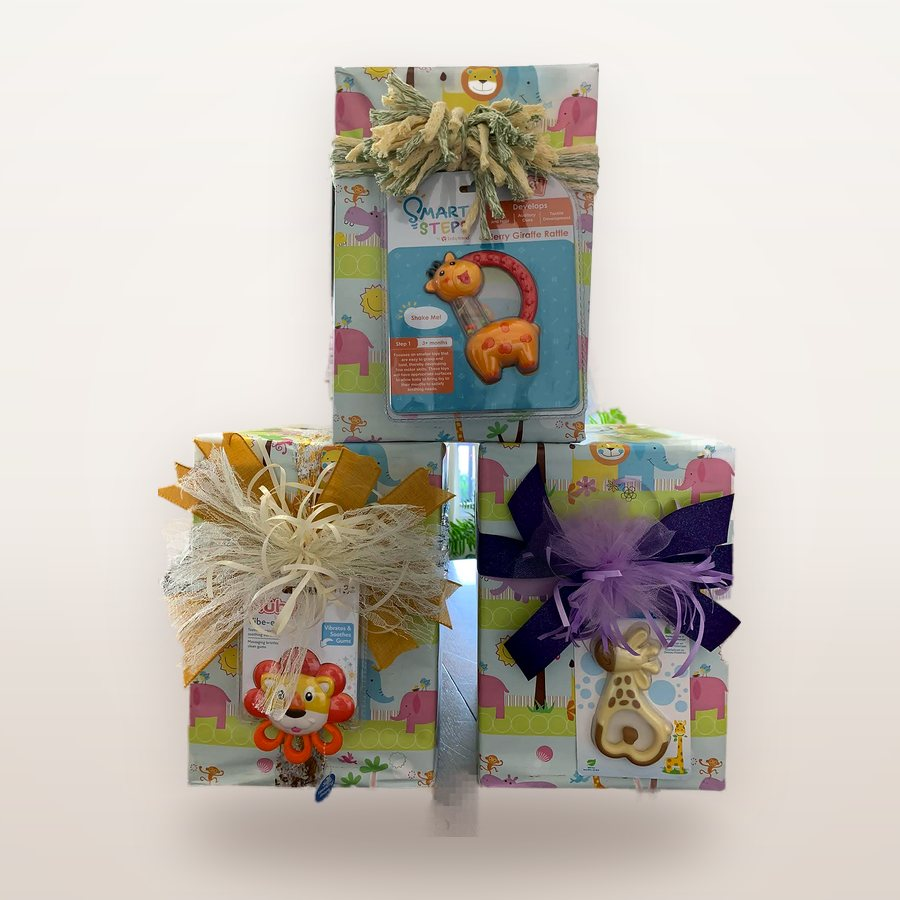
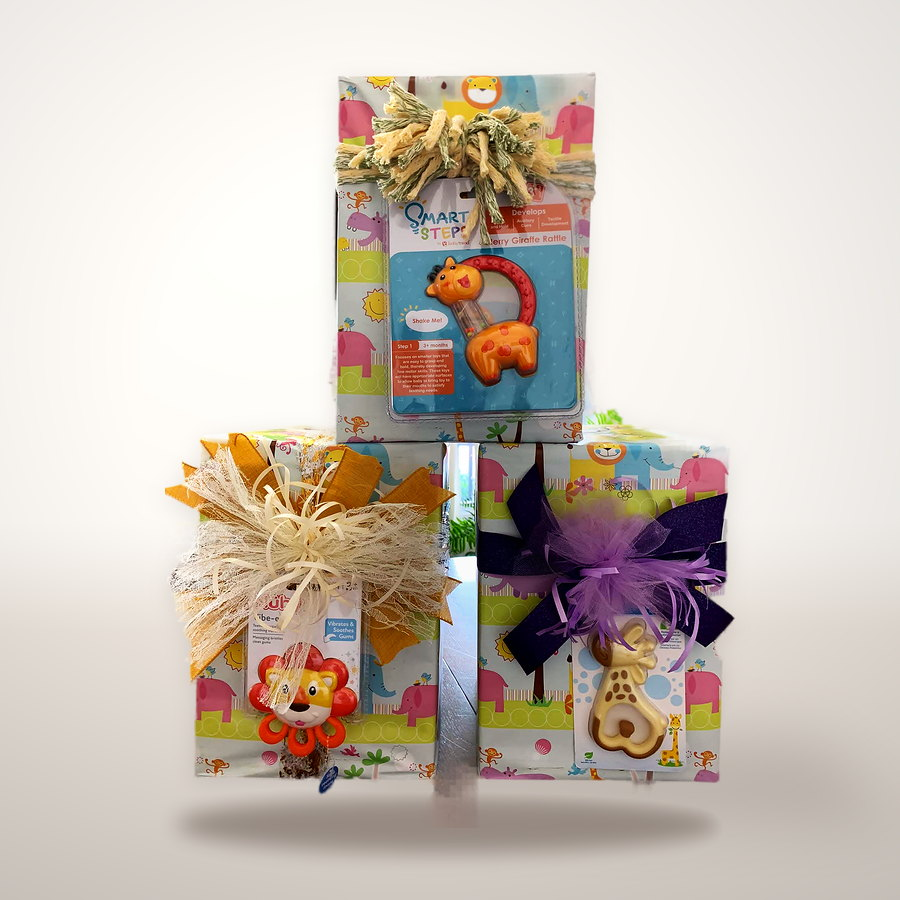
Relight portfolio photos for a product-shot look
- White balance per gift (removes indoor yellow cast), tone curve with
  shadow lift and vibrance, soft upper-left key light on each subject
- Edge decontamination to remove halos from the cut-outs
- Directional cast shadow plus tight contact shadow, on a lit backdrop
  with a subtle wall-to-surface horizon
- Processing script kept in assets/photos/studio.py for future photos

Claude-Session: https://claude.ai/code/session_016JQtQKJMKXSfWYB8dAVTZy

Changed region(s): [[0.1556, 0.0622, 1.0, 1.0]]

diff --git a/all-wrapped-up/thank-you.html b/all-wrapped-up/thank-you.html
@@ -78,11 +78,11 @@
   <span class="kicker">Thank you</span><h1>Your request has been received</h1><p class="lede">We will reply within one business day with pricing and next steps. For anything urgent, text 540-340-4905.</p>
 </div></div>
 <section><div class="wrap" style="text-align:center"><div class="gift-tile reveal in" style="background:#fde4ee;width:220px;margin:0 auto 24px"><svg viewBox="0 0 200 200" aria-hidden="true">
-<defs><pattern id="d81476" width="10" height="10" patternUnits="userSpaceOnUse"><circle cx="5" cy="5" r="1.8" fill="#fff"/></pattern></defs>
+<defs><pattern id="d21976" width="10" height="10" patternUnits="userSpaceOnUse"><circle cx="5" cy="5" r="1.8" fill="#fff"/></pattern></defs>
 <rect x="30" y="86" width="140" height="94" rx="8" fill="#fff"/>
 <rect x="22" y="70" width="156" height="30" rx="5" fill="#fde4ee" stroke="#fff" stroke-width="2"/>
-<rect x="86" y="70" width="28" height="110" fill="#e5648f"/><rect x="86" y="70" width="28" height="110" fill="url(#d81476)"/>
-<rect x="22" y="78" width="156" height="14" fill="#e5648f"/><rect x="22" y="78" width="156" height="14" fill="url(#d81476)"/>
+<rect x="86" y="70" width="28" height="110" fill="#e5648f"/><rect x="86" y="70" width="28" height="110" fill="url(#d21976)"/>
+<rect x="22" y="78" width="156" height="14" fill="#e5648f"/><rect x="22" y="78" width="156" height="14" fill="url(#d21976)"/>
 <path d="M100 74c-14-4-40-26-30-38s26 18 30 38zm0 0c14-4 40-26 30-38s-26 18-30 38z" fill="#b23a5e"/>
 <path d="M100 74c-6 6-18 18-26 12s10-16 26-12zm0 0c6 6 18 18 26 12s-10-16-26-12z" fill="#e5648f"/>
 <circle cx="100" cy="72" r="8" fill="#b23a5e"/><circle cx="97" cy="69" r="2.5" fill="#fff" opacity=".7"/>

diff --git a/all-wrapped-up/assets/photos/studio.py b/all-wrapped-up/assets/photos/studio.py
@@ -1,0 +1,165 @@
+"""Studio v2: cut-out + relight + directional shadows on a lit backdrop."""
+from rembg import remove, new_session
+from PIL import Image, ImageOps, ImageFilter, ImageChops, ImageDraw
+import numpy as np, pathlib, sys, time
+U = pathlib.Path('/root/.claude/uploads/e47ac2d3-6f0e-5f1a-8d8f-dfa7b433f156')
+OUT = pathlib.Path('assets/photos'); OUT.mkdir(exist_ok=True)
+CUT = pathlib.Path('/tmp/claude-0/cutouts'); CUT.mkdir(exist_ok=True, parents=True)
+sess = new_session("isnet-general-use"); sess_u2 = new_session("u2net")
+U2NET = {"3f236cb7", "a082a12c", "2ff12bbc", "726a9940"}
+SQ = (900, 900); HERO = (1200, 1500); LAND = (1400, 933)
+SPECS = {
+ 'hero-navy-chiffon':   ('182b1b47', HERO, True,  None),
+ 'about-hannah':        ('3f236cb7', HERO, True,  None),
+ 'sq-rainbow-box':      ('cce4d41b', SQ, False, None),
+ 'sq-hannah-check':     ('3f236cb7', SQ, True,  None),
+ 'sq-christmas-gold':   ('2ff12bbc', SQ, True,  None),
+ 'sq-western-rose':     ('f953b99b', SQ, True,  None),
+ 'sq-flamingo':         ('3945b91d', SQ, False, None),
+ 'sq-dad-shirt':        ('4dc32eeb', SQ, False, None),
+ 'sq-purple-organza':   ('161109a9', SQ, False, None),
+ 'sq-vols':             ('39539df9', SQ, False, None),
+ 'sq-nutcracker':       ('34ebf013', SQ, True,  None),
+ 'sq-bee-stack':        ('50c52199', SQ, False, None),
+ 'sq-trees-burlap':     ('caf7879e', SQ, False, None),
+ 'sq-paisley':          ('3e9d56c3', SQ, True,  None),
+ 'corp-purple-set':     ('3e409de2', LAND, False, None),
+ 'sq-special-delivery': ('c3f0febb', SQ, True,  None),
+ 'sq-pompom-stack':     ('8b7f17b9', SQ, False, None),
+ 'sq-snowflake-cube':   ('8727f463', SQ, False, None),
+ 'sq-purple-joy':       ('726a9940', SQ, False, None),
+ 'land-colorful-trees': ('750f1b45', LAND, False, None),
+ 'sq-wedding-navy':     ('182b1b47', SQ, True,  (0, .6)),
+ 'sq-bridal-dots':      ('a082a12c', SQ, True,  None),
+ 'sq-baby-shower':      ('d59d1308', SQ, False, None),
+ 'sq-camo-birthday':    ('efd1c6e1', SQ, False, None),
+}
+ONLY = sys.argv[1:]
+def find(uid): return next(U.glob(uid + '*'))
+
+def cutout(uid):
+    f = CUT / (uid + '.png')
+    if f.exists(): return Image.open(f).convert('RGBA')
+    im = ImageOps.exif_transpose(Image.open(find(uid))).convert('RGB'); im.thumbnail((1600, 1600), Image.LANCZOS)
+    out = remove(im, session=sess_u2) if uid in U2NET else remove(im, session=sess, alpha_matting=True,
+          alpha_matting_foreground_threshold=240, alpha_matting_background_threshold=10, alpha_matting_erode_size=6)
+    out.save(f); return out
+
+def best_angle(alpha):
+    a = alpha.copy(); a.thumbnail((320, 320)); best = (0, 1e18)
+    for i in range(-40, 41):
+        ang = i*0.25; r = a.rotate(ang, expand=True, resample=Image.BILINEAR)
+        bb = r.point(lambda v: 255 if v > 128 else 0).getbbox()
+        if bb:
+            area = (bb[2]-bb[0])*(bb[3]-bb[1])
+            if area < best[1]: best = (ang, area)
+    return best[0]
+
+# ---------- edge & colour work (numpy) ----------
+def clean_edges(rgba):
+    """Erode alpha 1px, feather, and pull edge colours from the interior to kill halos."""
+    a = rgba.split()[3].filter(ImageFilter.MinFilter(3)).filter(ImageFilter.GaussianBlur(0.8))
+    arr = np.asarray(rgba).astype(np.float32); al = np.asarray(a).astype(np.float32)/255.0
+    rgb = arr[..., :3]
+    # interior colour spread: premultiplied blur / blurred alpha
+    pre = Image.fromarray((rgb*al[..., None]).astype(np.uint8)).filter(ImageFilter.GaussianBlur(3))
+    ab = Image.fromarray((al*255).astype(np.uint8)).filter(ImageFilter.GaussianBlur(3))
+    pre = np.asarray(pre).astype(np.float32); ab = np.asarray(ab).astype(np.float32)/255.0
+    fill = pre/np.maximum(ab[..., None], 1e-3)
+    w = np.clip((0.92 - al)/0.92, 0, 1)[..., None]      # blend toward interior colour near the edge
+    rgb = rgb*(1-w) + fill*w
+    out = np.dstack([np.clip(rgb, 0, 255), al*255]).astype(np.uint8)
+    return Image.fromarray(out, 'RGBA')
+
+def white_balance(rgb, al, strength=0.75):
+    m = al > 0.95
+    px = rgb[m]
+    if len(px) < 500: return rgb
+    lum = px.mean(1); top = px[lum >= np.percentile(lum, 97)]
+    ref = top.mean(0); gain = ref.mean()/np.maximum(ref, 1)
+    gain = 1 + (gain-1)*strength; gain = np.clip(gain, 0.88, 1.18)
+    return np.clip(rgb*gain, 0, 255)
+
+def tone(rgb, al):
+    m = al > 0.95; px = rgb[m]
+    lo, hi = np.percentile(px, 0.5), np.percentile(px, 99.6)
+    rgb = (rgb - lo)*(255/max(hi-lo, 1)); rgb = np.clip(rgb, 0, 255)
+    x = rgb/255.0
+    x = x + 0.06*np.sin(np.pi*x)*(1-x)           # lift shadows
+    x = np.clip(0.5 + (x-0.5)*1.08, 0, 1)         # gentle contrast
+    x = 0.5 + 0.5*np.tanh(2.2*(x-0.5))/np.tanh(1.1)  # soft S curve
+    # vibrance: boost low-saturation colours a little more than saturated ones
+    mx, mn = x.max(2, keepdims=True), x.min(2, keepdims=True); sat = mx-mn
+    mean = x.mean(2, keepdims=True); x = mean + (x-mean)*(1 + 0.12*(1-sat))
+    return np.clip(x, 0, 1)*255
+
+def key_light(rgb, al):
+    """Soft key from upper-left: brighter top-left, gently darker bottom-right, plus a rim of light along the top."""
+    h, w = al.shape; yy, xx = np.mgrid[0:h, 0:w]
+    g = 1.07 - 0.14*((xx/w)*0.45 + (yy/h)*0.55)
+    top = np.exp(-((yy/h)/0.12)**2)*0.05
+    return np.clip(rgb*(g+top)[..., None], 0, 255)
+
+def relight(rgba):
+    rgba = clean_edges(rgba)
+    arr = np.asarray(rgba).astype(np.float32); rgb, al = arr[..., :3], arr[..., 3]/255.0
+    rgb = white_balance(rgb, al); rgb = tone(rgb, al); rgb = key_light(rgb, al)
+    out = Image.fromarray(np.dstack([rgb, al*255]).astype(np.uint8), 'RGBA')
+    r = out.convert('RGB').filter(ImageFilter.UnsharpMask(radius=1.1, percent=48, threshold=2))
+    r = r.convert('RGBA'); r.putalpha(out.split()[3]); return r
+
+# ---------- set ----------
+def backdrop(w, h):
+    base = np.zeros((h, w, 3), np.float32)
+    yy, xx = np.mgrid[0:h, 0:w]; u, v = xx/w, yy/h
+    wall = np.array([251, 248, 244], np.float32); floor = np.array([238, 230, 222], np.float32)
+    hz = 0.64; t = np.clip((v-hz+0.06)/0.12, 0, 1)[..., None]
+    base = wall*(1-t) + floor*t
+    base *= (1 - 0.07*np.clip(v-hz, 0, 1)/(1-hz))[..., None]           # floor falls off toward bottom
+    spot = np.exp(-(((u-0.3)/0.75)**2 + ((v-0.25)/0.7)**2))             # key light pool upper-left
+    base *= (0.93 + 0.10*spot)[..., None]
+    vig = 1 - 0.06*np.clip(np.sqrt((u-0.5)**2 + (v-0.5)**2)-0.35, 0, 1)/0.35
+    base *= vig[..., None]
+    return Image.fromarray(np.clip(base, 0, 255).astype(np.uint8))
+
+def shadows(W, H, a, x, y, sw):
+    """cast shadow (offset down-right with light from upper-left, blurred more with distance) + contact shadow."""
+    cast = Image.new('L', (W, H), 0)
+    # perspective squash: scale silhouette vertically to lie on the floor, skew right
+    sh = a.resize((a.width, max(1, int(a.height*0.26))), Image.BILINEAR)
+    sk = sh.transform((sh.width + int(sh.height*0.9), sh.height), Image.AFFINE, (1, -0.9, 0, 0, 1, 0), Image.BILINEAR)
+    cast.paste(sk, (x + int(sw*0.02), y + a.height - sh.height + int(sw*0.02)))
+    cast = cast.filter(ImageFilter.GaussianBlur(sw*0.05)).point(lambda v: int(v*0.22))
+    contact = Image.new('L', (W, H), 0)
+    ew, eh = int(sw*0.96), int(sw*0.10)
+    ell = Image.new('L', (ew, eh), 0); ImageDraw.Draw(ell).ellipse((0, 0, ew-1, eh-1), fill=255)
+    contact.paste(ell, (x + (sw-ew)//2, y + a.height - eh//2 - int(sw*0.008)))
+    contact = contact.filter(ImageFilter.GaussianBlur(sw*0.018)).point(lambda v: int(v*0.55))
+    amb = Image.new('L', (W, H), 0); amb.paste(a, (x, y + int(sw*0.012)))
+    amb = amb.filter(ImageFilter.GaussianBlur(sw*0.02)).point(lambda v: int(v*0.18))
+    return ImageChops.lighter(ImageChops.lighter(cast, contact), amb)
+
+def compose(name, uid, canvas, straighten, focus):
+    sub = cutout(uid)
+    if straighten:
+        ang = best_angle(sub.split()[3])
+        if 0 < abs(ang) <= 10: sub = sub.rotate(ang, expand=True, resample=Image.BICUBIC)
+    bb = sub.split()[3].point(lambda v: 255 if v > 40 else 0).getbbox(); sub = sub.crop(bb)
+    if focus: h = sub.height; sub = sub.crop((0, int(h*focus[0]), sub.width, int(h*focus[1])))
+    sub = relight(sub)
+    W, H = canvas; pad = 0.08
+    s = min(W*(1-2*pad)/sub.width, H*(1-2*pad)/sub.height)
+    sub = sub.resize((max(1, int(sub.width*s)), max(1, int(sub.height*s))), Image.LANCZOS)
+    x = (W - sub.width)//2
+    y = max(int(H*pad), min(int(H*0.64) + int(H*0.15) - sub.height, H - sub.height - int(H*pad)))
+    bg = backdrop(W, H)
+    bg.paste(Image.new('RGB', (W, H), (96, 80, 72)), mask=shadows(W, H, sub.split()[3], x, y, sub.width))
+    bg.paste(sub, (x, y), sub)
+    bg = bg.filter(ImageFilter.UnsharpMask(radius=0.8, percent=20, threshold=3))
+    bg.save(OUT/(name+'.jpg'), 'JPEG', quality=86, optimize=True, progressive=True, subsampling=1)
+    return sub.size
+
+t = time.time()
+for name, spec in SPECS.items():
+    if ONLY and name not in ONLY: continue
+    print(f"{name:22} {compose(name, *spec)} {time.time()-t:4.0f}s", flush=True)

diff --git a/all-wrapped-up/assets/photos/README.md b/all-wrapped-up/assets/photos/README.md
@@ -1,9 +1,9 @@
 # Photos
 
-Every image here is a real order wrapped by Amiebeth, given a consistent "studio"
-treatment: the gift is cut out of the original snapshot, straightened where it was a
-top-down shot, colour-corrected and placed on a warm off-white backdrop with a soft
-shadow. `wide-holiday-display.jpg` is the one untouched environmental shot (used as a
+Every image here is a real order wrapped by Amiebeth, given a consistent studio
+treatment by `studio.py`: the gift is cut out of the original snapshot, straightened
+where it was a top-down shot, white-balanced, tone-corrected, lit from the upper left
+and placed on a warm backdrop with a cast shadow and contact shadow. `wide-holiday-display.jpg` is the one untouched environmental shot (used as a
 banner with a dark overlay).
 
 To add more, send Claude the originals. Phone photos are fine; the treatment handles
